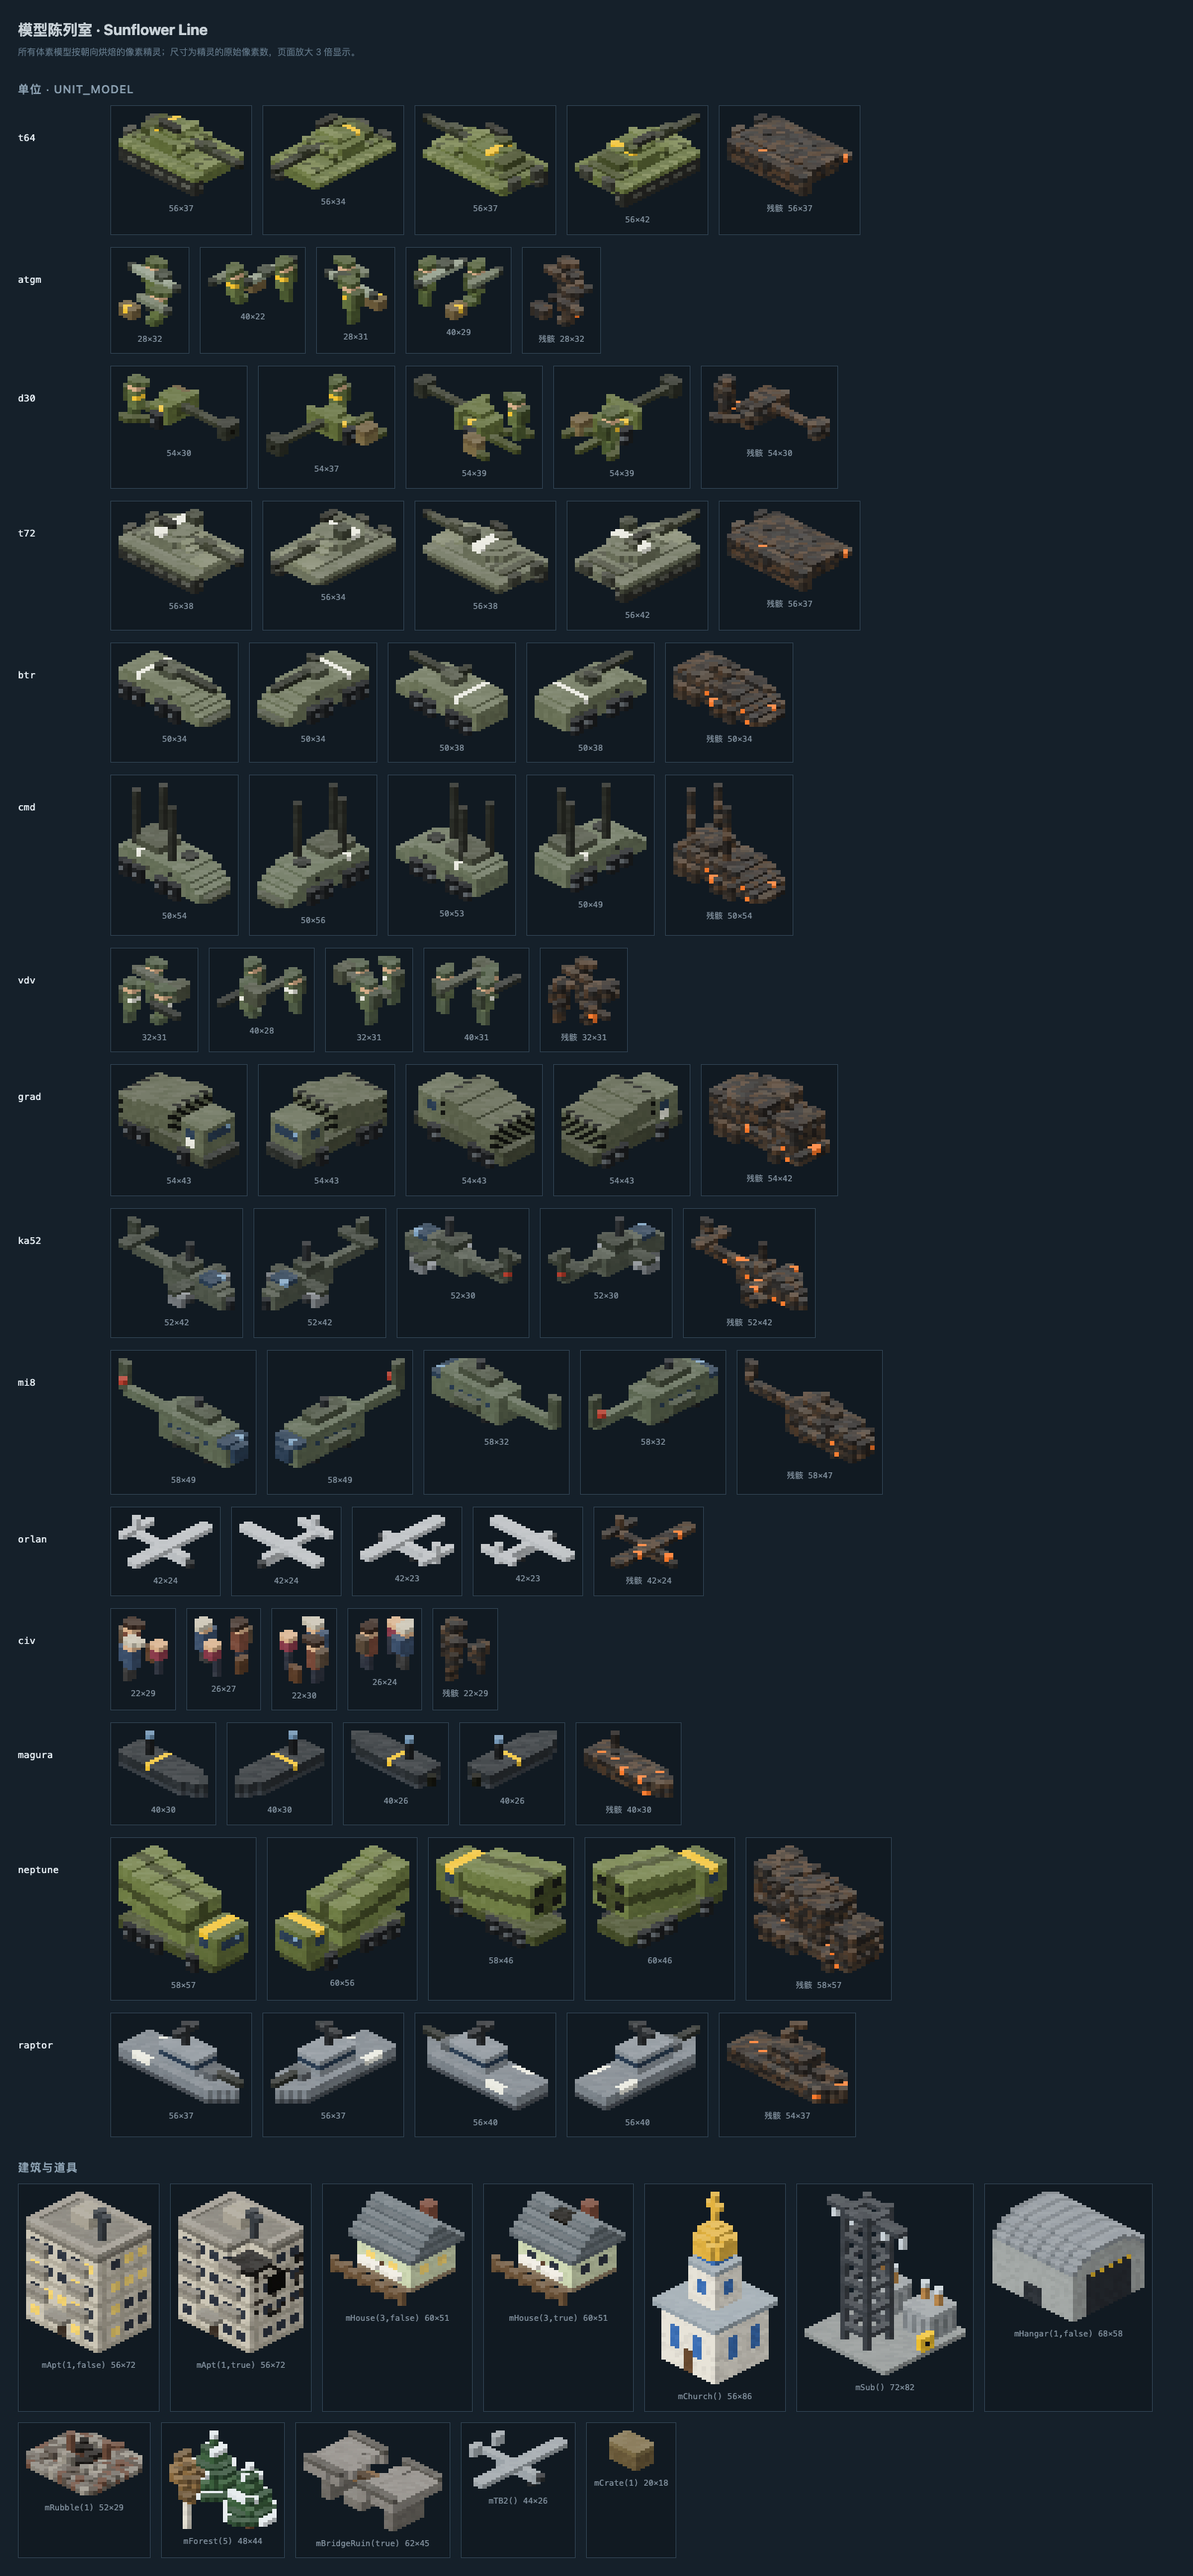
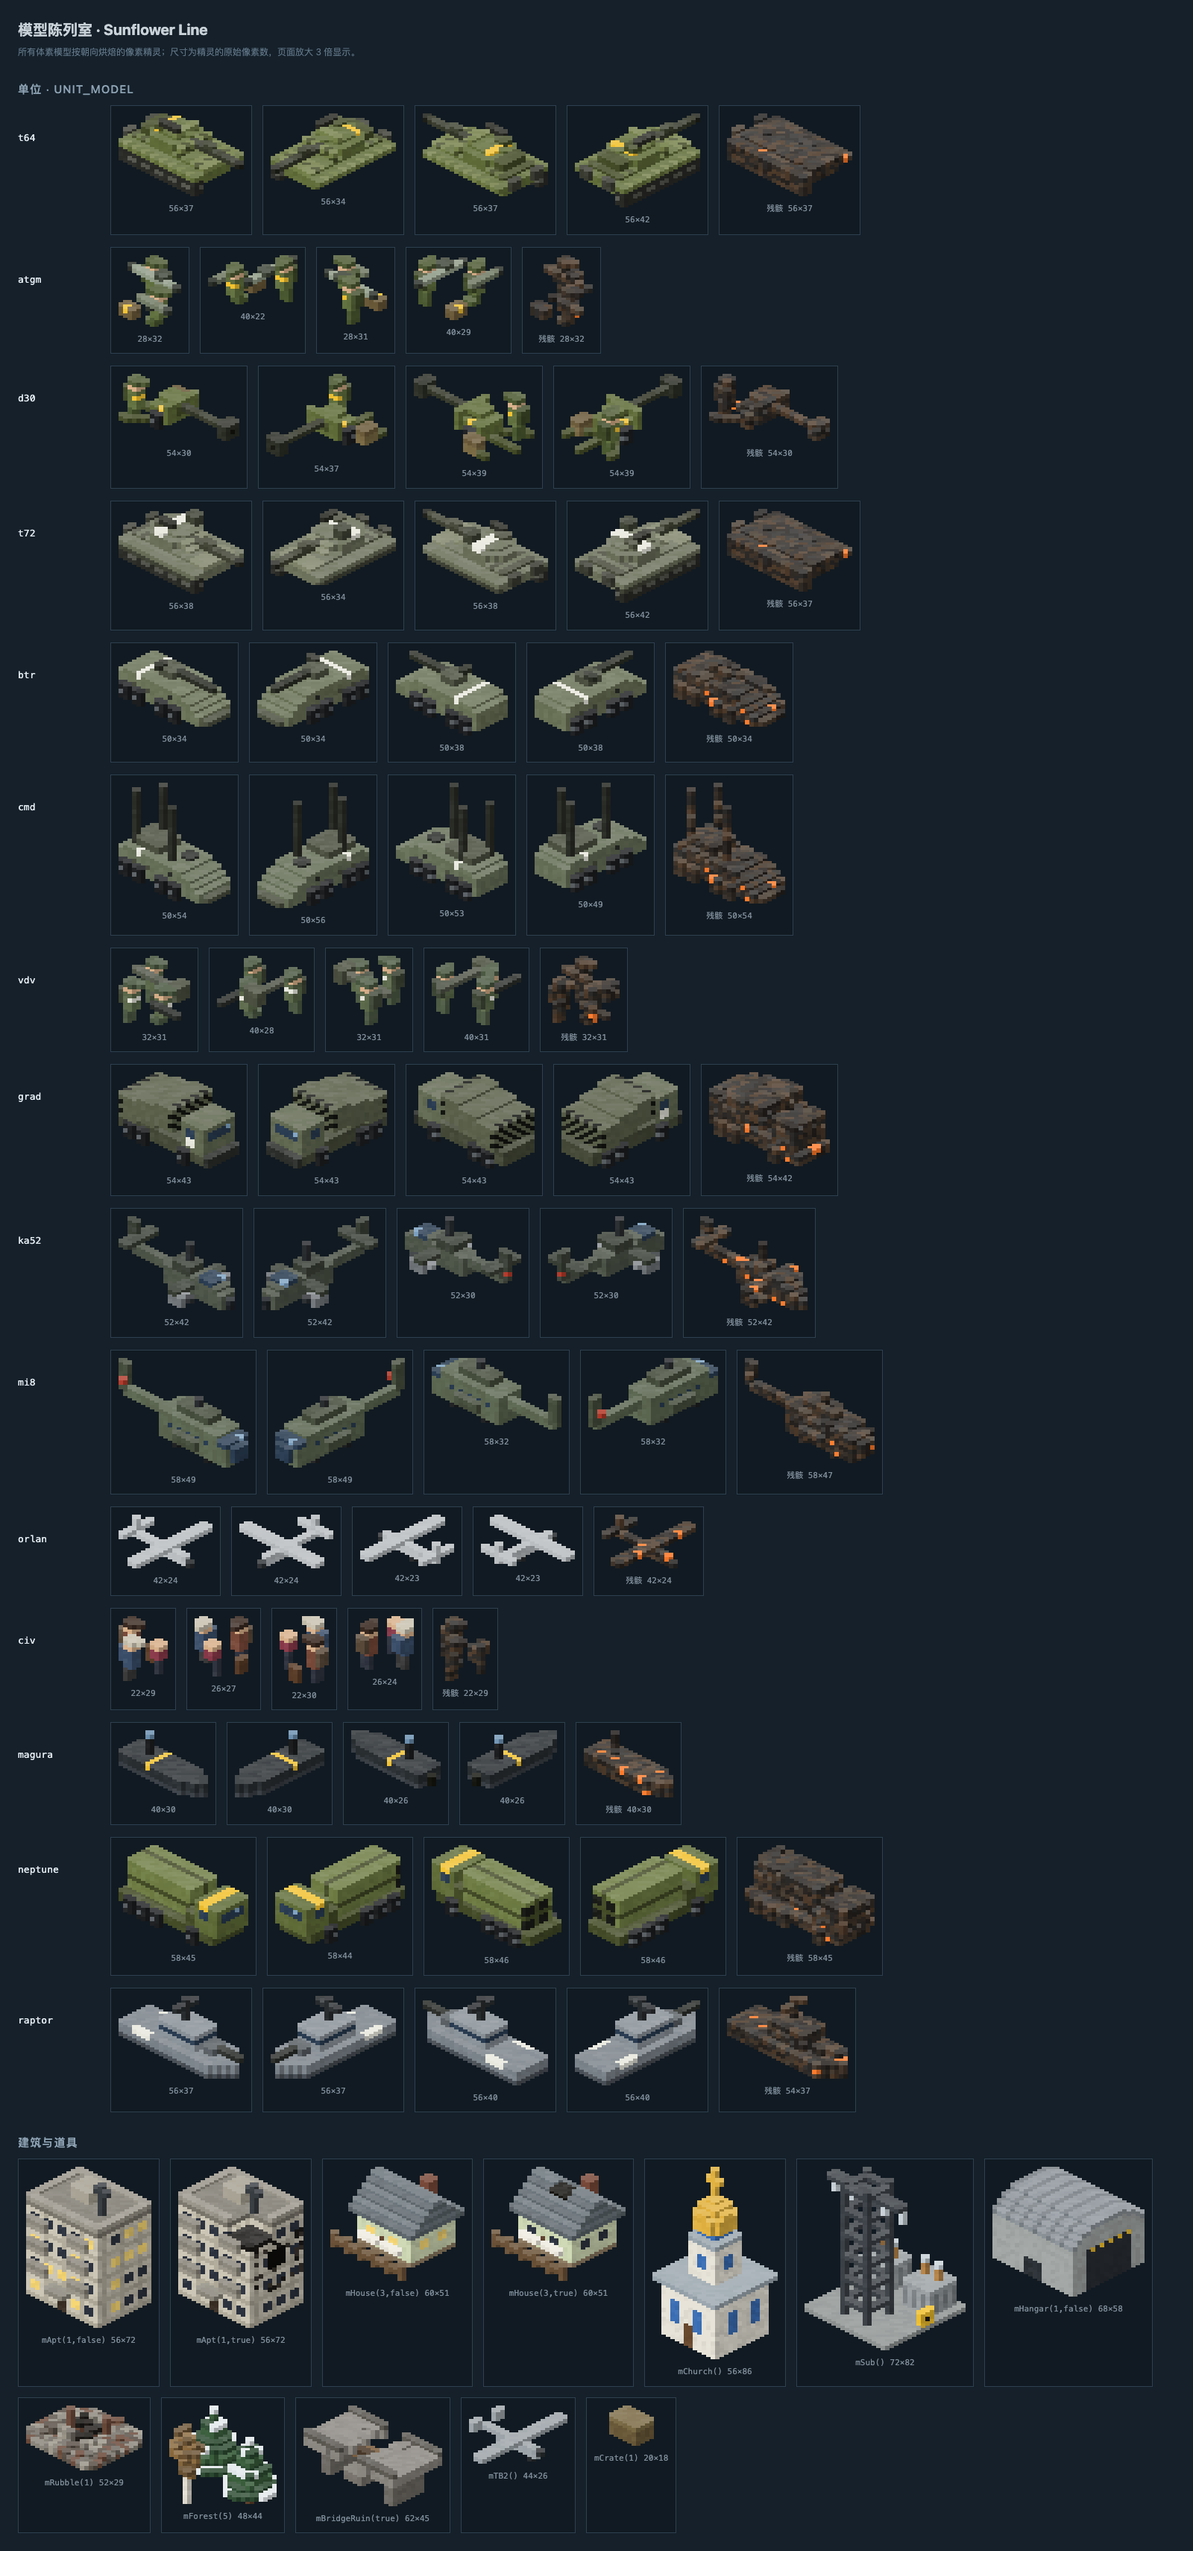
T-03: 第 2 轮修改（海王星发射筒改为平放细筒组）

diff --git a/game/js/models.js b/game/js/models.js
@@ -106,12 +106,10 @@ function mNeptune() {
   v.box(11, 11, -2, 2, 6, 7, C.glass); v.set(11, -1, 7, C.glassHi);
   for (const s of [-1, 1]) v.box(8, 9, s * 3, s * 3, 6, 7, C.glass);
   v.box(8, 9, -3, 3, 8, 8, C.yel);
-  for (let x = -10; x <= 4; x++) {
-    const lift = Math.floor((4 - x) / 4);
-    for (let y = -4; y <= 3; y++) for (let z = 4 + lift; z <= 11 + lift; z++)
-      v.set(x, y, z, (y === -1 || y === 0 || z === 7 + lift || z === 8 + lift) ? C.uaD : C.uaL);
-  }
-  for (const y0 of [-3, 1]) for (const z0 of [8, 12]) v.box(-10, -10, y0, y0 + 1, z0, z0 + 1, '#1a1c18');
+  for (let x = -9; x <= 4; x++) for (let y = -3; y <= 2; y++) for (let z = 4; z <= 9; z++)
+    v.set(x, y, z, (y === -1 || z === 6) ? C.uaD : C.uaL);
+  for (const y0 of [-3, 0]) for (const z0 of [4, 7]) v.box(-9, -9, y0, y0 + 1, z0, z0 + 1, '#1a1c18');
+  v.box(5, 6, -3, 3, 3, 5, C.uaD);
   return v;
 }
 
@@ -249,7 +247,7 @@ const hullOf = v => v.filter(p => p[2] <= 4);
 const turretOf = v => v.filter(p => p[2] >= 5).shift(0, 0, -5);
 
 const UNIT_MODEL = { t64: mT64, atgm: mAtgm, d30: mD30, t72: mT72, btr: () => mBtr(false), cmd: () => mBtr(true), vdv: mVdv, grad: mGrad, ka52: mKa52, mi8: mMi8, orlan: mOrlan, civ: mCiv, magura: mMagura, neptune: mNeptune, raptor: mRaptor };
-const MUZZLE = { t64: [13, 0, 6], t72: [13, 0, 6], d30: [13, 0, 4], btr: [9, 0, 7], atgm: [4, -1, 6], vdv: [4, -1, 6], grad: [3, 0, 10], ka52: [3, 4, 1], neptune: [-10, 0, 12], raptor: [12, 0, 4] };
+const MUZZLE = { t64: [13, 0, 6], t72: [13, 0, 6], d30: [13, 0, 4], btr: [9, 0, 7], atgm: [4, -1, 6], vdv: [4, -1, 6], grad: [3, 0, 10], ka52: [3, 4, 1], neptune: [-9, 0, 7], raptor: [12, 0, 4] };
 
 // --- buildings & props ---
 function mApt(seed, dmg) {

diff --git a/docs/tasks/T-03-黑海单位模型.md b/docs/tasks/T-03-黑海单位模型.md
@@ -58,6 +58,14 @@
 
 需审查方决定的问题：无。
 
+**第 2 轮（执行方：ZCode）**
+
+按第 1 轮审查意见重做 `mNeptune()` 发射筒部分：平放筒组（x -9..4、y -3..2、z 4..9，`C.uaL`），缝取 `y === -1`、`z === 6` 用 `C.uaD`；尾端 x=-9 四个 2×2 深色口（y [-3,-2]/[0,1]，z [4,5]/[7,8]）；驾驶室与筒组之间加支架 `v.box(5, 6, -3, 3, 3, 5, C.uaD)`；`MUZZLE.neptune` 改为 `[-9, 0, 7]`。底盘、车轮、驾驶室未动，`mMagura`/`mRaptor` 未动。
+
+自测：`node tools/check.js` 全绿（3 个文件）；`node tools/playtest.js /tmp/pt-T-03` 结尾 `ERRORS none`；`node tools/gallery-shot.js docs/tasks/shots/T-03` 重新生成截图并覆盖，新图里发射筒为平放细筒组，与驾驶室比例协调，无悬空体素。
+
+需审查方决定的问题：无。
+
 ## 审查意见（审查方写）
 
 ### 第 1 轮
